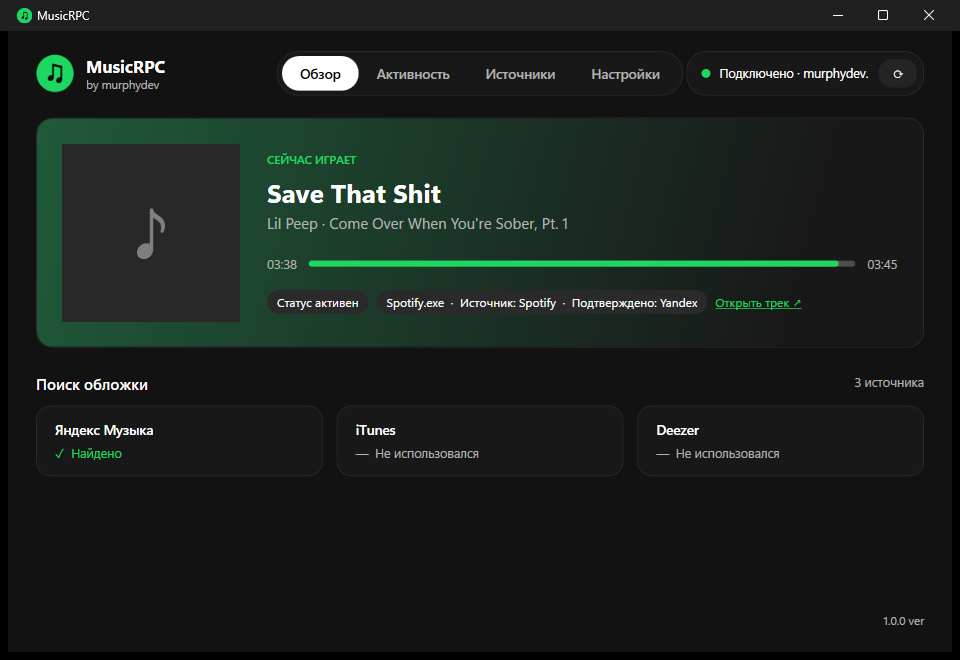
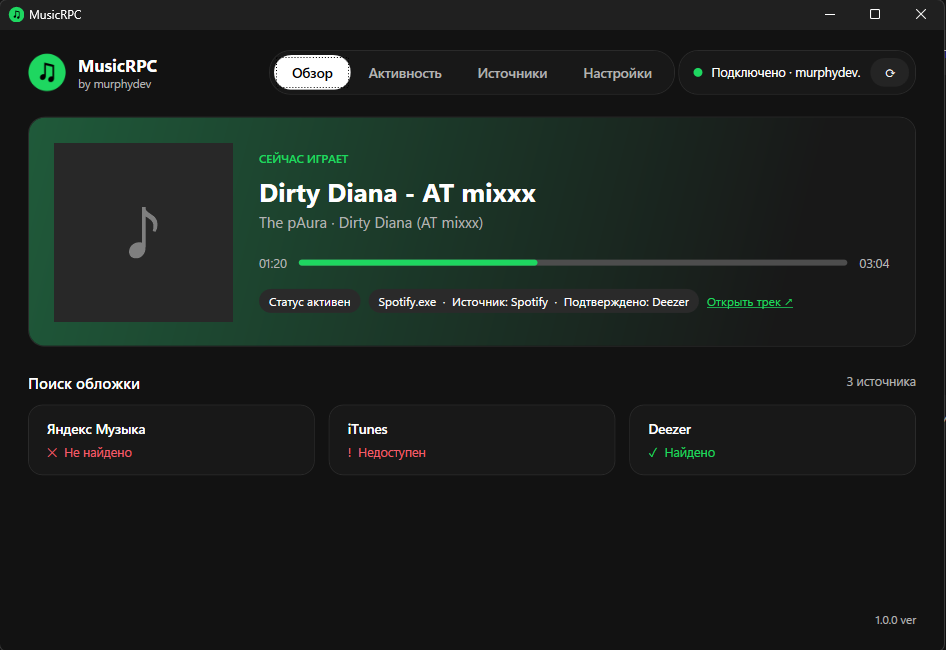
Update README screenshots

diff --git a/README.md b/README.md
@@ -1,4 +1,4 @@
-<div align="center">
+<div align="center">
 
 <img src="app-icon.png" width="120" alt="MusicRPC logo">
 
@@ -33,9 +33,9 @@ Spotify · Яндекс Музыка · SoundCloud — с обложкой, пр
 
 ## 📸 Скриншоты
 
-| Активность | Светлая тема |
+| Активность (светлая тема) | Настройки |
 |---|---|
-| <img src="docs/activity-dark.png" alt="Вкладка «Активность»"> | <img src="docs/overview-light.png" alt="Светлая тема"> |
+| <img src="docs/activity-light.png" alt="Вкладка «Активность», светлая тема"> | <img src="docs/settings-dark.png" alt="Вкладка «Настройки»"> |
 
 ## 📦 Установка
 
